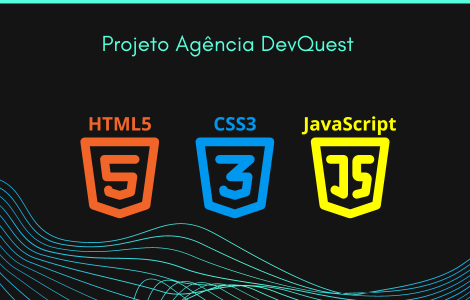
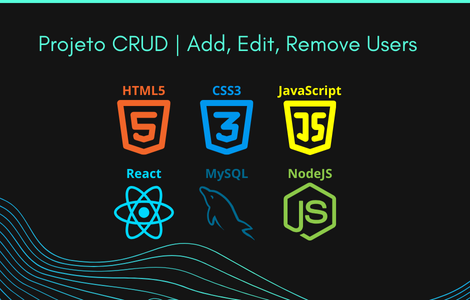
updating latest projects

Changed region(s): [[0.0, 0.27, 1.0, 1.0], [0.0596, 0.12, 0.8936, 0.18], [0.0, 0.0, 1.0, 0.03]]

diff --git a/index.html b/index.html
@@ -74,11 +74,11 @@
                 Sou uma pessoa <span>comprometida e dedicada</span>, sempre em busca de novas informações e tecnologias. 
             </p>
             <p>
-                Minha paixão pela tecnologia me motiva a continuar aprendendo e me aprimorando a cada dia. Atualmente, estou almejando uma vaga como <span>Desenvolvedor Frontend Júnior</span>. Tenho grande interesse em desenvolver interfaces de usuário interativas e funcionais, utilizando as melhores práticas e ferramentas disponíveis no mercado.
+                Minha paixão pela tecnologia me motiva a continuar aprendendo e me aprimorando a cada dia. Atualmente, estou almejando uma vaga como <span>Desenvolvedor FullStack</span>. Tenho grande interesse em desenvolver interfaces de usuário interativas e funcionais, utilizando as melhores práticas e ferramentas disponíveis no mercado.
             </p>
             <p>
-                <span>Principais competências: </span> React, TypeScript, JavaScript, Git / GitHub, HTML5, CSS3, API Rest, Layout Responsive.<br>
-                <span>Em estudo: </span> Backend, Integração de APIs, Testes e Debugging, Metodologias Ágeis ( scrum, kanban ), Adobe XD e Figma, Node.js, Docker.
+                <span>Principais competências: </span> React, TypeScript, JavaScript, Git / GitHub, HTML5, CSS3, API Rest, Layout Responsive, Backend, Integração de APIs, Testes e Debugging, MySQL, Express, NodeJS.<br>
+                <span>Em estudo: </span> , Metodologias Ágeis ( scrum, kanban ), Adobe XD e Figma, Docker.
             </p>
             <a href="https://www.linkedin.com/in/luciano-chiodini-6a35092b3/" class="btn">Leia mais</a>
         </div>
@@ -119,9 +119,9 @@
             <div class="portfolio-box">
                 <img src="./assets/portfolio/portfolio1.png">
                 <div class="portfolio-layer">
-                    <h4>Landing Page</h4>
-                    <p>Projeto do curso DevQuest: Landing Page com Grid de uma agência.</p>
-                    <a href="https://ylucino.github.io/DevQuest-Projeto-Landing-page-com-grid-agencia/" target="_blank"><ion-icon name="open-outline"></ion-icon></a>
+                    <h4>CRUD</h4>
+                    <p>Projeto CRUD: Adiciona, edita e remove usuários do Banco de dados.</p>
+                    <a href="https://github.com/yLucino/sample-crud" target="_blank"><ion-icon name="open-outline"></ion-icon></a>
                 </div>
             </div>
             <div class="portfolio-box">
@@ -159,9 +159,9 @@
             <div class="portfolio-box">
                 <img src="./assets/portfolio/portfolio6.png" alt="">
                 <div class="portfolio-layer">
-                    <h4>Register Page</h4>
-                    <p>Projeto do FrontendMentor: Pág. de resgistro com validação de e-mail com layout responsivo.</p>
-                    <a href="https://ylucino.github.io/FrontendMentor-RegisterPage-Responsive/" target="_blank"><ion-icon name="open-outline"></ion-icon></a>
+                    <h4>Enginner Test</h4>
+                    <p>Projeto Enginner: Consulta de Países, Informações, Gráfico Populacional, Países Fronteiriços.</p>
+                    <a href="https://github.com/yLucino/Full-Stack-JS-engineer-test-assessment-the-Country-Info-App" target="_blank"><ion-icon name="open-outline"></ion-icon></a>
                 </div>
             </div>
         </div>

diff --git a/script.js b/script.js
@@ -51,7 +51,7 @@ ScrollReveal().reveal('.home-content p, .about-content', { origin: 'right' });
 
 /* Typed Js */
 const typed = new Typed('.multiple-text', {
-    strings: ['Frontend Developer', 'DevQuest Student', 'React'],
+    strings: ['FullStack Developer', 'DevQuest Student', 'React', 'NodeJS', 'MySQL', 'Express'],
     typeSpeed: 100,
     backSpeed: 100,
     backDelay: 1000,
